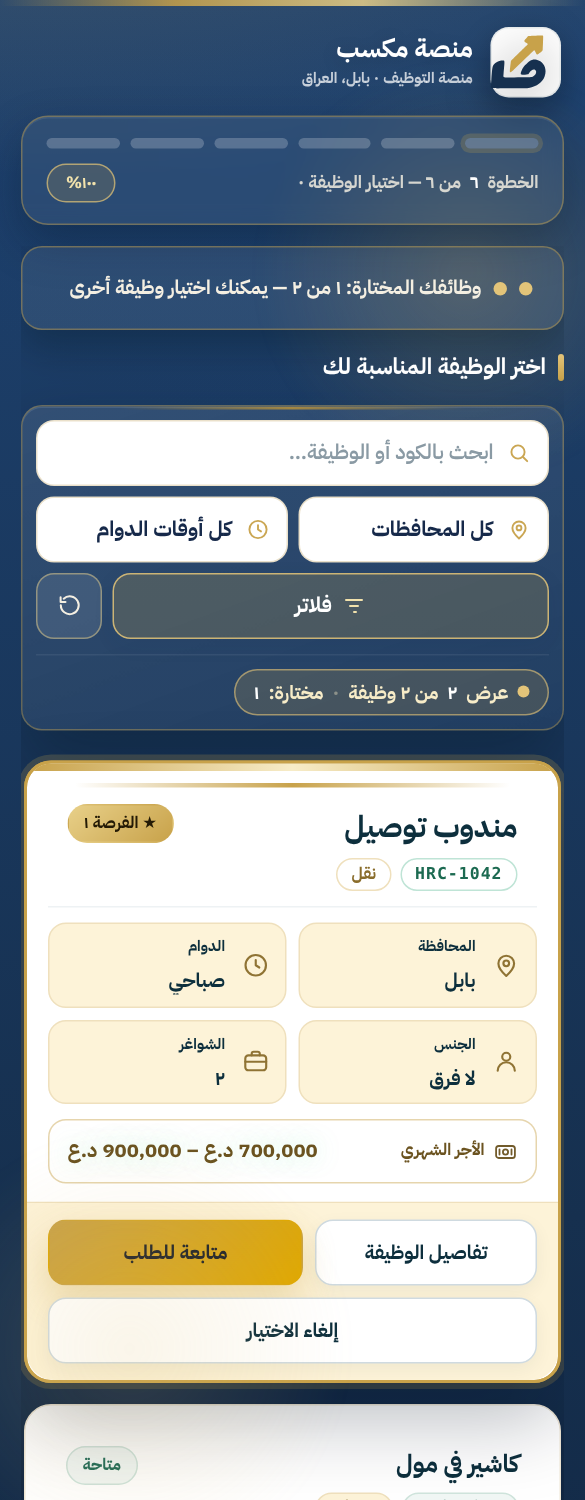
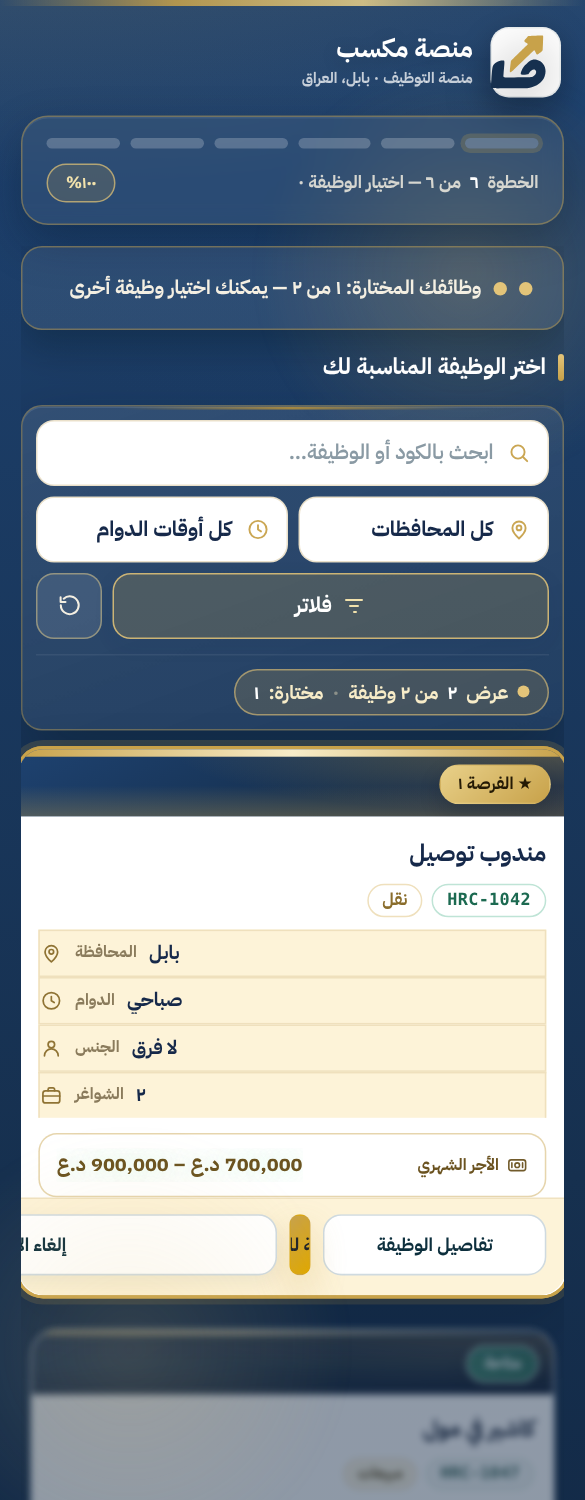
كروت وظائف البطاقة صارت بنفس شكل كروت الموقع: صورة أعلى، شارة ذهبية، صفوف أيقونات، زرّان جنباً إلى جنب + إصلاح رأس النافذة والفيض

Changed region(s): [[0.0308, 0.4907, 0.9846, 1.0]]

diff --git a/apply.html b/apply.html
@@ -3993,6 +3993,241 @@ body.job-modal-open .app{
   .job-modal-box,.job-modal-veil{animation:none!important}
   body.job-modal-open .app{filter:brightness(.86)!important}
 }
+/* ═══════════════════════════════════════════════════════════════════════════
+   2026-10-28 · كروت الوظائف في صفحة التقديم بنفس شكل كروت الموقع الرئيسي
+   ─ كارت أبيض: صورة أعلى · عنوان وشارة · صفوف معلومات بأيقونات · أجر · زر كحلي
+   ─ والضغط على الكارت يفتح نافذة الوظيفة ويُغبّش كل ما وراءها (كما هو)
+   ═══════════════════════════════════════════════════════════════════════════ */
+@media screen{
+
+  /* ── شبكة الكروت: نفس إيقاع الموقع (أعمدة متساوية ومسافات هادئة) ─────── */
+  body[data-step="6"] #jobs-list{
+    display:grid!important;
+    grid-template-columns:repeat(auto-fill,minmax(min(100%,286px),1fr))!important;
+    gap:16px!important;align-items:stretch!important;
+    padding:4px 0 2px!important;position:relative;
+  }
+
+  /* ── الكارت ─────────────────────────────────────────────────────────── */
+  body[data-step="6"] #jobs-list .job-card{
+    position:relative;display:flex!important;flex-direction:column;
+    padding:0!important;border-radius:18px!important;overflow:hidden;
+    background:#fff!important;border:1px solid #E9EDF4!important;
+    box-shadow:0 10px 26px rgba(6,13,31,.10)!important;
+    color:#16294A!important;cursor:pointer;
+    transition:transform .26s cubic-bezier(.2,1,.3,1),box-shadow .26s ease,border-color .26s ease!important;
+  }
+  body[data-step="6"] #jobs-list .job-card:hover{
+    transform:translateY(-3px);box-shadow:0 18px 38px rgba(6,13,31,.16)!important;border-color:#E3D5B4!important;
+  }
+  /* شريط علوي ذهبي–كحلي مثل كروت الموقع */
+  body[data-step="6"] #jobs-list .job-card::before{
+    content:'';position:absolute;inset-block-start:0;inset-inline:0;height:3px;z-index:3;
+    background:linear-gradient(90deg,#C8A24A,#E3C479 40%,#1E4270 100%);
+    opacity:1!important;
+  }
+  body[data-step="6"] #jobs-list .job-card:focus-visible{
+    outline:3px solid #C8A24A;outline-offset:2px;
+  }
+
+  /* ── الصورة أعلى الكارت (تعبئة ضبابية + الصورة كاملة بلا قصّ) ────────── */
+  body[data-step="6"] #jobs-list .job-media{
+    position:relative;width:100%;aspect-ratio:16/9;flex:none;
+    background:linear-gradient(150deg,#16304F,#0D2247);overflow:hidden;
+  }
+  body[data-step="6"] #jobs-list .job-media::after{
+    content:'';position:absolute;inset-inline:0;inset-block-end:0;height:46%;
+    background:linear-gradient(180deg,rgba(13,34,71,0),rgba(13,34,71,.42));pointer-events:none;
+  }
+  body[data-step="6"] #jobs-list .job-thumb{
+    display:block;position:absolute!important;inset:0!important;
+    width:100%!important;height:100%!important;aspect-ratio:auto!important;
+    border:0!important;border-radius:0!important;box-shadow:none!important;background:#0D2247!important;
+  }
+  body[data-step="6"] #jobs-list .job-thumb::before{
+    filter:blur(14px) saturate(1.1) brightness(.7);opacity:.9;transform:scale(1.15);
+  }
+  body[data-step="6"] #jobs-list .job-thumb img{
+    object-fit:contain!important;object-position:center;padding:6px;
+  }
+  /* بلا صورة: نفس الارتفاع بزرع شعار مكسب في منتصف مساحة كحلية ذهبية */
+  body[data-step="6"] #jobs-list .job-media:not(.has-img){
+    aspect-ratio:16/9;
+    background:
+      radial-gradient(120% 160% at 100% 0%,rgba(200,162,74,.38),transparent 62%),
+      radial-gradient(110% 150% at 0% 100%,rgba(227,196,121,.22),transparent 60%),
+      linear-gradient(150deg,#1E4270,#16304F 60%,#0D2247);
+    display:grid;place-items:center;
+  }
+  body[data-step="6"] #jobs-list .job-media:not(.has-img)::before{
+    content:'';width:56px;height:56px;border-radius:18px;
+    background:
+      radial-gradient(circle at 50% 50%,rgba(255,255,255,.12),transparent 70%),
+      url("assets/img/favicon-mkseb.svg") center/58% no-repeat,
+      #0F2444;
+    border:1px solid rgba(227,196,121,.55);
+    box-shadow:0 10px 24px rgba(4,16,34,.35);
+    filter:drop-shadow(0 6px 14px rgba(0,0,0,.28));
+  }
+  body[data-step="6"] #jobs-list .job-media:not(.has-img)::after{display:none}
+
+  /* شارة الحالة: كبسولة فوق الصورة (يمين أعلى) */
+  body[data-step="6"] #jobs-list .job-state{
+    position:absolute;inset-block-start:10px;inset-inline-start:10px;z-index:2;
+    display:inline-flex;align-items:center;gap:5px;
+    font-size:11px!important;font-weight:900!important;line-height:1.2;
+    padding:5px 11px!important;border-radius:999px!important;white-space:nowrap;
+    box-shadow:0 6px 14px rgba(6,13,31,.20);
+    border:1px solid transparent!important;
+  }
+  body[data-step="6"] #jobs-list .job-state.is-open{
+    background:linear-gradient(135deg,#FFF4D6,#EFDDA8)!important;color:#6B5320!important;
+    border-color:rgba(200,162,74,.55)!important;
+  }
+  body[data-step="6"] #jobs-list .job-state.is-picked{
+    background:linear-gradient(135deg,#E8D089,#C8A24A)!important;color:#241A05!important;
+  }
+  body[data-step="6"] #jobs-list .job-state.is-done{
+    background:linear-gradient(135deg,#6B7280,#4B5563)!important;color:#fff!important;
+  }
+
+  /* ── متن الكارت ─────────────────────────────────────────────────────── */
+  body[data-step="6"] #jobs-list .job-body{
+    padding:12px 13px 0!important;display:grid!important;gap:8px!important;
+  }
+  body[data-step="6"] #jobs-list .title{
+    margin:0!important;font-size:15.5px!important;font-weight:900!important;line-height:1.55!important;
+    color:#16294A!important;overflow-wrap:anywhere;
+  }
+  body[data-step="6"] #jobs-list .job-tags{gap:6px!important;margin:0!important}
+  body[data-step="6"] #jobs-list .job-code,
+  body[data-step="6"] #jobs-list .job-cat{
+    font-size:10.5px!important;font-weight:800!important;
+    padding:3px 9px!important;border-radius:8px!important;line-height:1.4;
+  }
+  body[data-step="6"] #jobs-list .job-code{
+    background:#F1F9F6!important;border:1px solid #CFE7DE!important;color:#0F6D63!important;
+    direction:ltr;letter-spacing:.02em;
+  }
+  body[data-step="6"] #jobs-list .job-cat{
+    background:#FDFAF3!important;border:1px solid #EFE7D6!important;color:#8A6D2C!important;
+  }
+
+  /* صفوف المعلومات: أيقونة · تسمية صغيرة · قيمة (سطر لكل معلومة) */
+  body[data-step="6"] #jobs-list .job-meta{
+    display:grid!important;grid-template-columns:minmax(0,1fr)!important;gap:0!important;
+  }
+  body[data-step="6"] #jobs-list .jm{
+    display:flex!important;flex-direction:row-reverse;align-items:center;justify-content:flex-start;
+    gap:8px;padding:6px 0!important;
+    background:transparent!important;border:0!important;
+    border-bottom:1px dashed #F0ECE2!important;border-radius:0!important;min-height:0!important;
+  }
+  body[data-step="6"] #jobs-list .jm:last-child{border-bottom:0!important}
+  body[data-step="6"] #jobs-list .jm .jm-ic{
+    width:15px!important;height:15px!important;color:#B08D3C!important;grid-row:auto!important;
+  }
+  body[data-step="6"] #jobs-list .jm .jm-k{
+    font-size:10.5px!important;font-weight:700!important;color:#8A7B5C!important;
+    line-height:1.4!important;white-space:nowrap;flex:none;
+  }
+  body[data-step="6"] #jobs-list .jm .jm-v{
+    font-size:12.5px!important;font-weight:900!important;color:#16294A!important;
+    margin-inline-start:auto;text-align:start;
+    white-space:nowrap;overflow:hidden;text-overflow:ellipsis;max-width:58%;
+  }
+
+  /* سطر الأجر: شريط ذهبي فاتح واضح */
+  body[data-step="6"] #jobs-list .job-pay{
+    display:flex!important;align-items:center;justify-content:space-between;gap:8px;flex-wrap:wrap;
+    margin:2px 0 0!important;padding:9px 11px!important;border-radius:12px!important;
+    background:#FDF6E4!important;border:1px solid #EFE0BD!important;
+  }
+  body[data-step="6"] #jobs-list .job-pay-k{
+    display:inline-flex!important;align-items:center;gap:5px;
+    font-size:10.5px!important;font-weight:800!important;color:#8A6D2C!important;
+  }
+  body[data-step="6"] #jobs-list .job-pay-k svg{width:14px;height:14px;color:#B08D3C}
+  body[data-step="6"] #jobs-list .job-pay-v{
+    font-size:13px!important;font-weight:900!important;color:#6B5320!important;
+    white-space:nowrap;overflow:hidden;text-overflow:ellipsis;max-width:100%;
+  }
+
+  /* ── أزرار الكارت (أسفل الكارت، بنفس زر الموقع) ─────────────────────── */
+  body[data-step="6"] #jobs-list .job-actions{
+    margin:12px 0 0!important;padding:10px 13px 13px!important;
+    display:grid!important;grid-template-columns:1.15fr .95fr;gap:8px!important;align-items:stretch;
+    background:transparent!important;border:0!important;border-top:1px solid #F2F5F9!important;
+    margin-top:auto!important;
+  }
+  body[data-step="6"] #jobs-list .job-actions .btn{
+    width:100%!important;flex:none!important;min-width:0!important;max-width:none!important;
+    min-height:40px!important;border-radius:12px!important;
+    font-size:12px!important;font-weight:900!important;padding:9px 6px!important;
+    white-space:nowrap!important;overflow:hidden;text-overflow:ellipsis;
+    display:inline-flex!important;align-items:center!important;justify-content:center!important;
+  }
+  /* زر واحد (مثل المختارة/المنتهية) يمتد بعرض الكارت */
+  body[data-step="6"] #jobs-list .job-actions .btn:only-child{grid-column:1 / -1}
+  body[data-step="6"] #jobs-list .job-actions .job-details-btn{
+    flex:0 0 auto!important;min-width:0!important;
+    background:#fff!important;border:1px solid #E6DCC6!important;color:#12305C!important;
+    box-shadow:none!important;
+  }
+  body[data-step="6"] #jobs-list .job-actions .job-details-btn:hover{
+    border-color:#C8A24A!important;background:#FFFDF6!important;
+  }
+  body[data-step="6"] #jobs-list .job-actions .btn-primary{
+    background:linear-gradient(140deg,#1E4270,#16304F 60%,#0D2247)!important;
+    color:#F7EFD9!important;border:1px solid rgba(200,162,74,.5)!important;
+    box-shadow:0 8px 18px rgba(11,26,58,.22)!important;
+  }
+  body[data-step="6"] #jobs-list .job-actions .btn-primary *{color:#F7EFD9!important;stroke:#E3C479!important}
+  body[data-step="6"] #jobs-list .job-actions .btn-primary:hover{filter:brightness(1.12)}
+  body[data-step="6"] #jobs-list .job-actions .btn-success{
+    background:linear-gradient(135deg,#E8D089,#C8A24A 58%,#B08D3C)!important;
+    color:#241A05!important;border:1px solid rgba(255,255,255,.5)!important;
+    box-shadow:0 8px 18px rgba(200,162,74,.28)!important;
+  }
+  body[data-step="6"] #jobs-list .job-actions .job-cancel-btn{
+    flex:0 0 auto!important;min-width:0!important;border-color:#E6DCC6!important;color:#8A4B3A!important;
+  }
+
+  /* ── الكارت المختار: إطار ذهبي سميك + علامة الفرصة ──────────────────── */
+  body[data-step="6"] #jobs-list .job-card.selected{
+    border:2px solid #C8A24A!important;background:#fff!important;
+    box-shadow:0 18px 40px rgba(6,13,31,.20),0 0 0 4px rgba(200,162,74,.18)!important;
+  }
+  body[data-step="6"] #jobs-list .job-card.selected .jm .jm-v,
+  body[data-step="6"] #jobs-list .job-card.selected .title{color:#16294A!important}
+  body[data-step="6"] #jobs-list .job-card.selected .jm .jm-k{color:#8A7B5C!important}
+  body[data-step="6"] #jobs-list .job-card.selected .job-media::after{
+    background:linear-gradient(180deg,rgba(200,162,74,0),rgba(200,162,74,.30));
+  }
+  body[data-step="6"] #jobs-list .job-card .pick-mark{
+    position:absolute;inset-block-start:10px;inset-inline-end:10px;z-index:4;
+    width:30px;height:30px;font-size:12.5pt;
+  }
+  body[data-step="6"] #jobs-list .job-card.is-done{opacity:.86}
+
+  /* ── «البورتريه»: المختارة تبرز والبقية تُغبَّش (يبقى كما هو) ─────────── */
+  body[data-step="6"] #jobs-list.has-focus .job-card:not(.selected):not(.is-done){
+    filter:blur(2.6px) saturate(.6) brightness(.96)!important;opacity:.55!important;
+    transform:scale(.965)!important;
+  }
+  body[data-step="6"] #jobs-list.has-focus .job-card.selected{
+    transform:translateY(-4px) scale(1.02)!important;filter:none!important;opacity:1!important;z-index:6;
+  }
+
+  @media(max-width:640px){
+    body[data-step="6"] #jobs-list{grid-template-columns:1fr!important;gap:14px!important}
+    body[data-step="6"] #jobs-list .job-media{aspect-ratio:16/8}
+  }
+  @media(prefers-reduced-motion:reduce){
+    body[data-step="6"] #jobs-list .job-card{transition:none!important}
+    body[data-step="6"] #jobs-list .job-card:hover{transform:none}
+  }
+}
 </style>
 </head>
 <body>
@@ -5114,28 +5349,26 @@ var G={
         +' aria-label="عرض تفاصيل وظيفة '+esc(j.title)+'">'
         +'<span class="pick-mark" aria-hidden="true">'+(picked?ar(G.chanceNumber(slotNo)):'✓')+'</span>'
 
-        /* ── رأس الكارت ── */
-        +'<header class="job-head">'
+        /* ── نفس ترتيب كارت الموقع الرئيسي: صورة · عنوان وشارة · صفوف · أجر · أزرار ── */
+        +'<div class="job-media'+(j.imageUrl?' has-img':'')+'">'
           +(j.imageUrl
-            ? '<span class="job-thumb" style="--img:url(&quot;'+esc(j.imageUrl)+'&quot;)"><img src="'+esc(j.imageUrl)+'" alt="" loading="lazy" decoding="async" referrerpolicy="no-referrer"'
+            ? '<span class="job-thumb" style="--img:url(&quot;'+esc(j.imageUrl)+'&quot;)">'
+              +'<img src="'+esc(j.imageUrl)+'" alt="صورة وظيفة '+esc(j.title)+'" loading="lazy" decoding="async" referrerpolicy="no-referrer"'
               +' onload="this.parentNode.classList.add(\'has-img\')" onerror="this.parentNode.remove()"></span>'
             : '')
-          +'<div class="job-id">'
-            +'<h4 class="title">'+esc(j.title)+'</h4>'
-            +'<div class="job-tags">'
-              +'<span class="job-code">'+esc(j.code)+'</span>'
-              +'<span class="job-cat">'+esc(j.category)+'</span>'
-            +'</div>'
-          +'</div>'
           +'<span class="job-state '+stateCls+'">'+stateTxt+'</span>'
-        +'</header>'
+        +'</div>'
 
-        /* ── شبكة المعلومات: أيقونة + تسمية صغيرة + قيمة (أصغر وأرتب) ── */
         +'<div class="job-body">'
+          +'<h4 class="title">'+esc(j.title)+'</h4>'
+          +'<div class="job-tags">'
+            +'<span class="job-code">'+esc(j.code)+'</span>'
+            +'<span class="job-cat">'+esc(j.category||'—')+'</span>'
+          +'</div>'
           +'<div class="job-meta">'
             +'<div class="jm">'+G.jobIcon('pin')+'<span class="jm-k">المحافظة</span><span class="jm-v">'+esc(place||'—')+'</span></div>'
-            +'<div class="jm">'+G.jobIcon('clock')+'<span class="jm-k">الدوام</span><span class="jm-v">'+esc(j.shift)+'</span></div>'
-            +'<div class="jm">'+G.jobIcon('user')+'<span class="jm-k">الجنس</span><span class="jm-v">'+esc(j.gender)+'</span></div>'
+            +'<div class="jm">'+G.jobIcon('clock')+'<span class="jm-k">الدوام</span><span class="jm-v">'+esc(j.shift||'—')+'</span></div>'
+            +'<div class="jm">'+G.jobIcon('user')+'<span class="jm-k">الجنس</span><span class="jm-v">'+esc(j.gender||'لا فرق')+'</span></div>'
             +'<div class="jm">'+G.jobIcon('seat')+'<span class="jm-k">الشواغر</span><span class="jm-v">'+ar(j.vacancies||1)+'</span></div>'
           +'</div>'
           +'<div class="job-pay">'
@@ -5147,16 +5380,17 @@ var G={
         /* (التفاصيل الكاملة صارت في نافذة الوظيفة — لا تكرار داخل الكارت) */
 
         /* ── أزرار الإجراء ── */
-        +'<footer class="job-actions">'
-          +'<button type="button" class="btn btn-outline btn-sm job-details-btn" onclick="event.stopPropagation();G.openJob(\''+esc(j.code)+'\')">تفاصيل الوظيفة</button>';
-      if(done){h+='<button type="button" class="btn btn-outline btn-sm" disabled>تم التقديم</button>';}
-      else if(chancesLeft<=0){h+='<button type="button" class="btn btn-outline btn-sm" disabled>انتهت الفرص</button>';}
+        +'<footer class="job-actions">';
+      /* الإجراء الأساسي أولاً (يمين الكارت في RTL) ثم «تفاصيل الوظيفة» */
+      if(done){h+='<button type="button" class="btn btn-outline btn-sm job-main-btn" disabled>تم التقديم</button>';}
+      else if(chancesLeft<=0){h+='<button type="button" class="btn btn-outline btn-sm job-main-btn" disabled>انتهت الفرص</button>';}
       else if(picked){
-        /* المختارة: زر واحد واضح «متابعة» + إلغاء الاختيار (لا نُكرّر رقم الفرصة هنا) */
-        h+='<button type="button" class="btn btn-success btn-sm" onclick="event.stopPropagation();G.next()">متابعة للطلب</button>';
-        h+='<button type="button" class="btn btn-outline btn-sm" onclick="event.stopPropagation();G.pickJob(\''+esc(j.code)+'\')">إلغاء الاختيار</button>';
+        h+='<button type="button" class="btn btn-success btn-sm job-main-btn" onclick="event.stopPropagation();G.next()">متابعة للطلب</button>';
+        h+='<button type="button" class="btn btn-outline btn-sm job-cancel-btn" onclick="event.stopPropagation();G.pickJob(\''+esc(j.code)+'\')">إلغاء الاختيار</button>';
       }
-      else{h+='<button type="button" class="btn btn-primary btn-sm" onclick="event.stopPropagation();G.pickJob(\''+esc(j.code)+'\')">اختيار الوظيفة</button>';}
+      else{h+='<button type="button" class="btn btn-primary btn-sm job-main-btn" onclick="event.stopPropagation();G.pickJob(\''+esc(j.code)+'\')">اختيار الوظيفة</button>';}
+      if(!picked&&!done){h+='<button type="button" class="btn btn-outline btn-sm job-details-btn" onclick="event.stopPropagation();G.openJob(\''+esc(j.code)+'\')">تفاصيل الوظيفة</button>';}
+      else if(done){h+='<button type="button" class="btn btn-outline btn-sm job-details-btn" onclick="event.stopPropagation();G.openJob(\''+esc(j.code)+'\')">تفاصيل الوظيفة</button>';}
       h+='</footer>'
       +'</article>';
     });

diff --git a/sw.js b/sw.js
@@ -1,4 +1,4 @@
-// Service Worker للعمل أوفلاين — hrc-cache-v83
+// Service Worker للعمل أوفلاين — hrc-cache-v84
 // ---------------------------------------------------------------------------
 // سياسة التخزين منذ v4:
 //   • HTML و JS  → network-first: الشبكة أولاً (الزائر يرى آخر نسخة)، والكاش
@@ -28,7 +28,7 @@
    إن كان مطابقاً. إبقاء الرقم ثابتاً يُبقي الزوار القدامى على نسخة قديمة
    من index.html مهما أعدت النشر (ظهر فعلاً: زر دخول محذوف بقي على حاسبة
    زارت الموقع قبل الحذف، بينما اختفى على هاتف لم يزره من قبل). */
-const CACHE_NAME = 'hrc-cache-v83';
+const CACHE_NAME = 'hrc-cache-v84';
 const urlsToCache = [
   '/',
   '/index.html',

diff --git a/docs/public-app-identity-2026-10-25.md b/docs/public-app-identity-2026-10-25.md
@@ -1007,3 +1007,37 @@
 
 **لقطات:** `docs/preview/shots/q1-modal.png` (جوال) · `q2-modal-d.png` (كمبيوتر) ·
 `q4-modal-dbg.png` (تحقّق التغبيش).
+
+---
+
+## 30) كروت وظائف البطاقة = كروت الموقع الرئيسي (2026-10-28)
+
+بطلب المالك: «أريد الوظائف الي بالبطاقة تصير نفس الوظائف الي بالرئيسية بشكل
+منسّق ومرتّب… وعند الضغط تنبثق الكارت ويغوش المحيط».
+
+### ١) نفس بنية الكارت في الموقع
+| الجزء | التنفيذ في صفحة التقديم |
+|---|---|
+| **صورة أعلى الكارت** | `.job-media` بنسبة 16:9 — الصورة كاملة `object-fit:contain` فوق **تعبئة ضبابية** من الصورة نفسها (بلا قصّ ولا حواف بيضاء) |
+| بلا صورة | نفس المساحة بتدرّج كحلي/ذهبي وفيه **شعار مكسب** في الوسط |
+| شارة الحالة | كبسولة **ذهبية فاتحة** «متاحة» أعلى يمين الصورة (وذهبية غامقة لـ«الفرصة ١»، رمادية لـ«تم التقديم») |
+| العنوان والوسوم | عنوان 15.5px كحلي غامق + شريحة الكود (تركوازي) وشريحة التخصص (ذهبي) |
+| صفوف المعلومات | سطر لكل معلومة: **أيقونة + تسمية صغيرة + القيمة**، بفواصل منقّطة رقيقة |
+| الأجر | شريط **ذهبي فاتح** بعرض الكارت |
+| الأزرار | **«اختيار الوظيفة»** كحلي بحدّ ذهبي + **«تفاصيل الوظيفة»** أبيض — جنباً إلى جنب بشبكة `1.15fr/0.95fr` (لا التفاف ولا قصّ) |
+| المختارة | إطار **ذهبي 2px** وهالة، والنصوص تبقى كحلية (لا تغيير ألوان) |
+
+### ٢) النافذة المنبثقة (كما هي، مع تحسينات)
+- الضغط على أي كارت يفتح **نافذة الوظيفة** ويُغبّش كل ما وراءها.
+- أُصلح في هذه الجولة: فيض أفقي كان يزيح الصفحة (بسبب `grid` على `.job-modal`) →
+  صار `flex` + `overflow-x:clip` على `html` وقت الفتح (قِيس: عرض المستند ٣٩٠ = الشاشة).
+- ترتيب رأس النافذة في RTL: **الشعار يميناً · العنوان · الشارة · × يساراً** (كان معكوساً).
+- زر الإغلاق/الاختيار بمقاسات طبيعية داخل النافذة.
+
+**الاختبارات:** قسم جديد **٣٧** في `tests/schema.mjs` (تسعة فحوص لبنية الكارت
+والصورة والأزرار وفتح النافذة) → `schema` **292 / 0** · `apply-flow` **119 / 0** ·
+`job-filters` 52 · `smoke` 138 · `audit` 151 · `e2e` 146 · `perf` 37 — `test:all`
+أخضر. الكاش `hrc-cache-v84`.
+
+**لقطات:** `docs/preview/shots/s1-jobs-m.png` · `s2-jobs-d.png` (كمبيوتر) ·
+`s1-jobs-m-modal.png` (النافذة) · `r1-cards.png` · `r2-picked.png`.
